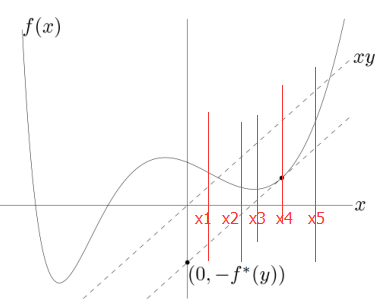
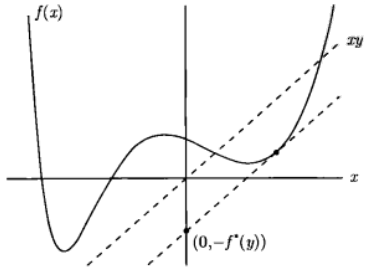
finish convex optimization

diff --git a/content/mathematics/numerical-calculation-and-optimization/convex-optimization.md b/content/mathematics/numerical-calculation-and-optimization/convex-optimization.md
@@ -3,19 +3,39 @@
 - [返回顶层目录](../../SUMMARY.md#目录)
 - [返回上层目录](numerical-calculation-and-optimization.md)
 
-[理解凸优化](https://mp.weixin.qq.com/s?__biz=MzU4MjQ3MDkwNA==&mid=2247484439&idx=1&sn=4fa8c71ae9cb777d6e97ebd0dd8672e7&chksm=fdb69980cac110960e08c63061e0719a8dc7945606eeef460404dc2eb21b4f5bdb434fb56f92&mpshare=1&scene=1&srcid=0518tlWFr2se8CueI9c0wSTe#rd)
-
-* [凸优化](#凸优化)
-
-参考：
-
-重要
-
-https://blog.csdn.net/xueyingxue001/article/details/51858074
-
-
-
-https://blog.csdn.net/shenxiaolu1984/article/details/78194053?locationNum=3&fps=1
+* [仿射集合和凸集](#仿射集合和凸集)
+  * [仿射集合](#仿射集合)
+  * [凸集](#凸集)
+* [凸函数](#凸函数)
+  * [凸函数定义](#凸函数定义)
+    * [一阶条件](#一阶条件)
+    * [二阶条件](#二阶条件)
+  * [Jensen不等式](#Jensen不等式)
+  * [共轭函数](#共轭函数)
+    * [如何求共轭函数](#如何求共轭函数)
+    * [Fenchel不等式](#Fenchel不等式)
+    * [共轭的共轭是原函数](#共轭的共轭是原函数)
+* [凸优化问题](#凸优化问题)
+  * [优化问题](#优化问题)
+  * [凸优化问题定义](#凸优化问题定义)
+* [对偶](#对偶)
+  * [拉格朗日函数](#拉格朗日函数)
+  * [拉格朗日对偶函数](#拉格朗日对偶函数)
+    * [最优值的下界](#最优值的下界)
+    * [通过线性逼近来理解下界性质](#通过线性逼近来理解下界性质)
+    * [拉格朗日对偶函数和共轭函数](#拉格朗日对偶函数和共轭函数)
+  * [拉格朗日对偶问题](#拉格朗日对偶问题)
+    * [弱对偶性](#弱对偶性)
+    * [强对偶性和Slater约束准则](#强对偶性和Slater约束准则)
+  * [拉格朗日对偶的解释](#拉格朗日对偶的解释)
+    * [强弱对偶性的极大极小描述](#强弱对偶性的极大极小描述)
+    * [鞍点解释](#鞍点解释)
+    * [对策解释](#对策解释)
+  * [最优性条件](#最优性条件)
+    * [互补松弛性](#互补松弛性)
+    * [KKT最优性条件](#KKT最优性条件)
+    * [KKT条件的力学解释](#KKT条件的力学解释)
+    * [通过解对偶问题求解原问题](#通过解对偶问题求解原问题)
 
 
 
@@ -134,33 +154,47 @@ $$
 
 ## 共轭函数
 
+已知函数f，定义函数f*为
+$$
+f^*(y)=\mathop{\text{sup}}_{x\in \text{dom}\ f}\left( y^Tx-f(x) \right)
+$$
+此函数称为函数f的**共轭函数**。如下图所示。
 
-
-
-
-![conjugate-function-sup](pic/conjugate-function-sup.png)
-
-
-
-
+这个的意思就是说：我们求yTx- f(x)这个关于x和y函数在定义域内的上界，将这个上界形成的函数定义为共轭函数。
 
 ![conjugate-function](pic/conjugate-function.png)
 
+如上图所示，共轭函数f\*(y)是线性函数yx和f(x)之间的最大差值。如果f可微，在满足f'(x)=y处的点x处差值最大。
+
+显而易见，f\*是凸函数，这是因为它是一系列y的凸函数（实质上是仿射函数）的逐点上确界。无论f是否是凸函数，f\*都是凸函数。这句话怎么理解呢？来，很好理解：
+
+看下面这个图，图中对应那些直线如果是yTx- f(x)的图像的话（注意y才是自变量，x是可变的系数），那图中的上确界就是那些直线的共轭函数的图像。
+
+其实也就是这样，不信你再看看共轭函数的定义式：先看左边，既然是f\*(y)，那这个函数就是关于y的函数，于是函数右边的yTx - f(x) 部分的x就是y的系数，f(x)就是一个常数，当x和y都是一维的时候这不就是直线的方程吗？对吧。
+
+![conjugate-function-sup](pic/conjugate-function-sup.png)
+
+话说上面的解释虽然很直观，但我想下面的理解方法也需要给出。
+
+如下图所示：
+
+![conjugate-function-1](pic/conjugate-function-1.png)
+
 注意，这个函数并不是凸函数。
 
+假设y=2时，yTx的图像是xy那条虚线，而定义式右边的部分是求x等于多少时yTx - f(x)的值最大，在上图中我们可以一眼看出，在“和xy平行且是f(x)切线的那个点”处两函数的差值最大，假设差值是10，于是我们就求出yTx - f(x)的共轭函数的一个点，即f\*(2) = 10，就这样把y扩展到这个定义域范围内后就得到了整个共轭函数。
 
+ 然后说几点：
 
+* 定义式中的f(x)不一定是凸函数。
+* 共轭函数一定是凸函数。（嗯？你问为啥？你再看看上上图，无数条仿射函数的逐点上确界啊，当然是凸函数了。。看见那条红线了没？）
+* 凸函数的共轭函数的共轭函数是其本身。
 
+下面我们来用matlab画一个函数来加深理解：
 
-![conjugate-function-x4](pic/conjugate-function-x4.png)
+![conjugate-function-x2](pic/conjugate-function-x2.png)
 
-
-
-
-
-![conjugate-function-x4-sup](pic/conjugate-function-x4-sup.png)
-
-
+![conjugate-function-x2-sup](pic/conjugate-function-x2-sup.png)
 
 这里附上图的matlab代码：
 
@@ -186,32 +220,74 @@ end
 
 ```matlab
 function [y] = hanshu(x)
-w0 = 2.432; w1 = 0.3675; w2 = -0.3701; w3 = 0.003058; w4 = 0.01168;
-y = w0 + w1*x + w2*x.^2 + w3*x.^3 + w4*x.^4;
+%w0 = 2.432; w1 = 0.3675; w2 = -0.3701; w3 = 0.003058; w4 = 0.01168;
+%y = w0 + w1*x + w2*x.^2 + w3*x.^3 + w4*x.^4;
+y = x.^2;
 end
 ```
 
-
-
 ### 如何求共轭函数
 
-![conjugate-function-x2](pic/conjugate-function-x2.png)
+上面只是为了直观的理解共轭函数，那如果求呢？看下面的例子：
 
+假设有函数
+$$
+f(x) = x^TQx/2
+$$
+，其中Q是可逆的对称阵，算它的共轭函数，根据定义就是求：
+$$
+g(x, y) = y^Tx - x^TQx/2
+$$
+的上确界。
 
+于是将g(x, y)对x求偏导：
+$$
+g’(x,y) = (y^Tx)’ - (x^TQx/2)’=y - Qx
+$$
+其中，xTQx对x求偏导的结果是2Qx。
 
-![conjugate-function-x2-sup](pic/conjugate-function-x2-sup.png)
+令其对x的偏导等于零，得
+$$
+x= Q^{-1}y
+$$
+因为是求偏导，所以得到的是上确界，于是把上式代入g(x, y)后就得f(x)的共轭函数：
+$$
+f^*(y)= y^TQ^{-1}y/2
+$$
 
+### Fenchel不等式
 
+还记得共轭函数的定义式吗？不记得的话往上翻翻~
 
+总之，根据共轭函数的定义，f\*(x)是对yTx- f(x)求上确界，于是一定有f*(x)≥yTx - f(x)，把f(x)移到左边于是就有了下面的式子：
+$$
+f(x) + f^*(y)\geqslant x^Ty
+$$
+这，就是Fenchel不等式。但这有什么用呢？
 
+ 你看啊，从小学开始我们就在学习一些奇怪的不等式，如：
 
-## Fenchel不等式
+ 两个正数的算术平均数大于等于几何平均数，即：
+$$
+\frac{a+b}{2}\geqslant\sqrt{ab},\quad a>0,\ b>0
+$$
+这个还蛮好证明的：因为对于两个正数x、y有x2+y2≥2xy，这时令a=x2、b=y2，就得出了上面的公式。但下面这个不等式你知道怎么证明吗？
 
+给定可逆对称阵Q，对于任意的向量x, y，有：
+$$
+x^TQx+ y^TQ^{-1}y \geqslant 2x^Ty
+$$
+ 不知道吧。其实这个用Fenchel不等式就可以证明。
 
+还记得共轭函数里已经求得的f(x)= xTQx/2时f(x)的共轭函数是f\*(y) = yTQ-1y吗？将其代入到Fenchel不等式中就立马得到了xTQx+ yTQ-1y ≥ 2xTy。
 
+PS：xTQx+ yTQ-1y ≥ 2xTy退化到一维就是ax2 + y2/a ≥ 2xy。
 
+### 共轭的共轭是原函数
 
+上面的例子以及“共轭”都隐含了凸函数的共轭函数的共轭函数是原函数，也即：如果函数f是凸函数且f是闭的，则f\*\*=f\*。
 
+例如，如果dom f = R^n，则我们有f\*\*=f，即f的共轭函数的共轭函数还是f。
 
 # 凸优化问题
 
@@ -304,8 +380,6 @@ $$
 的交集。因此，在一个凸优化问题中，我们是**在一个凸集上极小化一个凸的目标函数**。
 
 # 对偶
-
-
 
 ## 拉格朗日函数
 
@@ -843,6 +917,8 @@ $$
 
 
 
+
+
 上式可以理解为两个模块间的受力平衡方程，这里假设**Lagrange乘子是模块之间，模块与墙之间的接触力**，如下图所示。第一个方程表示第一个模块上的总受力为零，其中λ1是左边墙事假在这个模块上的接触力，-λ2是右边模块给的力。**当存在接触时，接触力不为零（如上面的互补松弛条件所描述）**，上面的互补松弛条件中的最后一个条件表明，除非右边模块接触墙，否则λ3为零。
 
 ![spring-force-analyze](pic/spring-force-analyze.png)
@@ -861,3 +937,12 @@ $$
 
 **当对偶问题比原问题更容易求解时**，比如说对偶问题可以解析求解或者有某些特殊的结构容易求解，上述方法很有效。
 
+# 参考资料
+
+* 《凸优化》Boyd
+
+本文绝大部分内容就是摘抄浓缩的此书的前240页，以方便快速学习此书中与机器学习相关的核心内容。
+
+* [凸优化 - 3 - Jensen不等式、共轭函数、Fenchel不等式](https://blog.csdn.net/xueyingxue001/article/details/51858074)
+
+"共轭函数"一小节部分参考了此博客。

diff --git a/content/mathematics/numerical-calculation-and-optimization/numerical-calculation-and-optimization.md b/content/mathematics/numerical-calculation-and-optimization/numerical-calculation-and-optimization.md
@@ -5,6 +5,5 @@
 - [随机梯度下降SGD](stochastic-gradient-desent.md)
 - [等式约束的拉格朗日乘子法](lagrangian-multiplier-method.md)
 - [凸优化](convex-optimization.md)
-  - [最优化问题的KKT条件](karush-kuhn-tucker-conditions.md#最优化问题的KKT条件)
 
 
